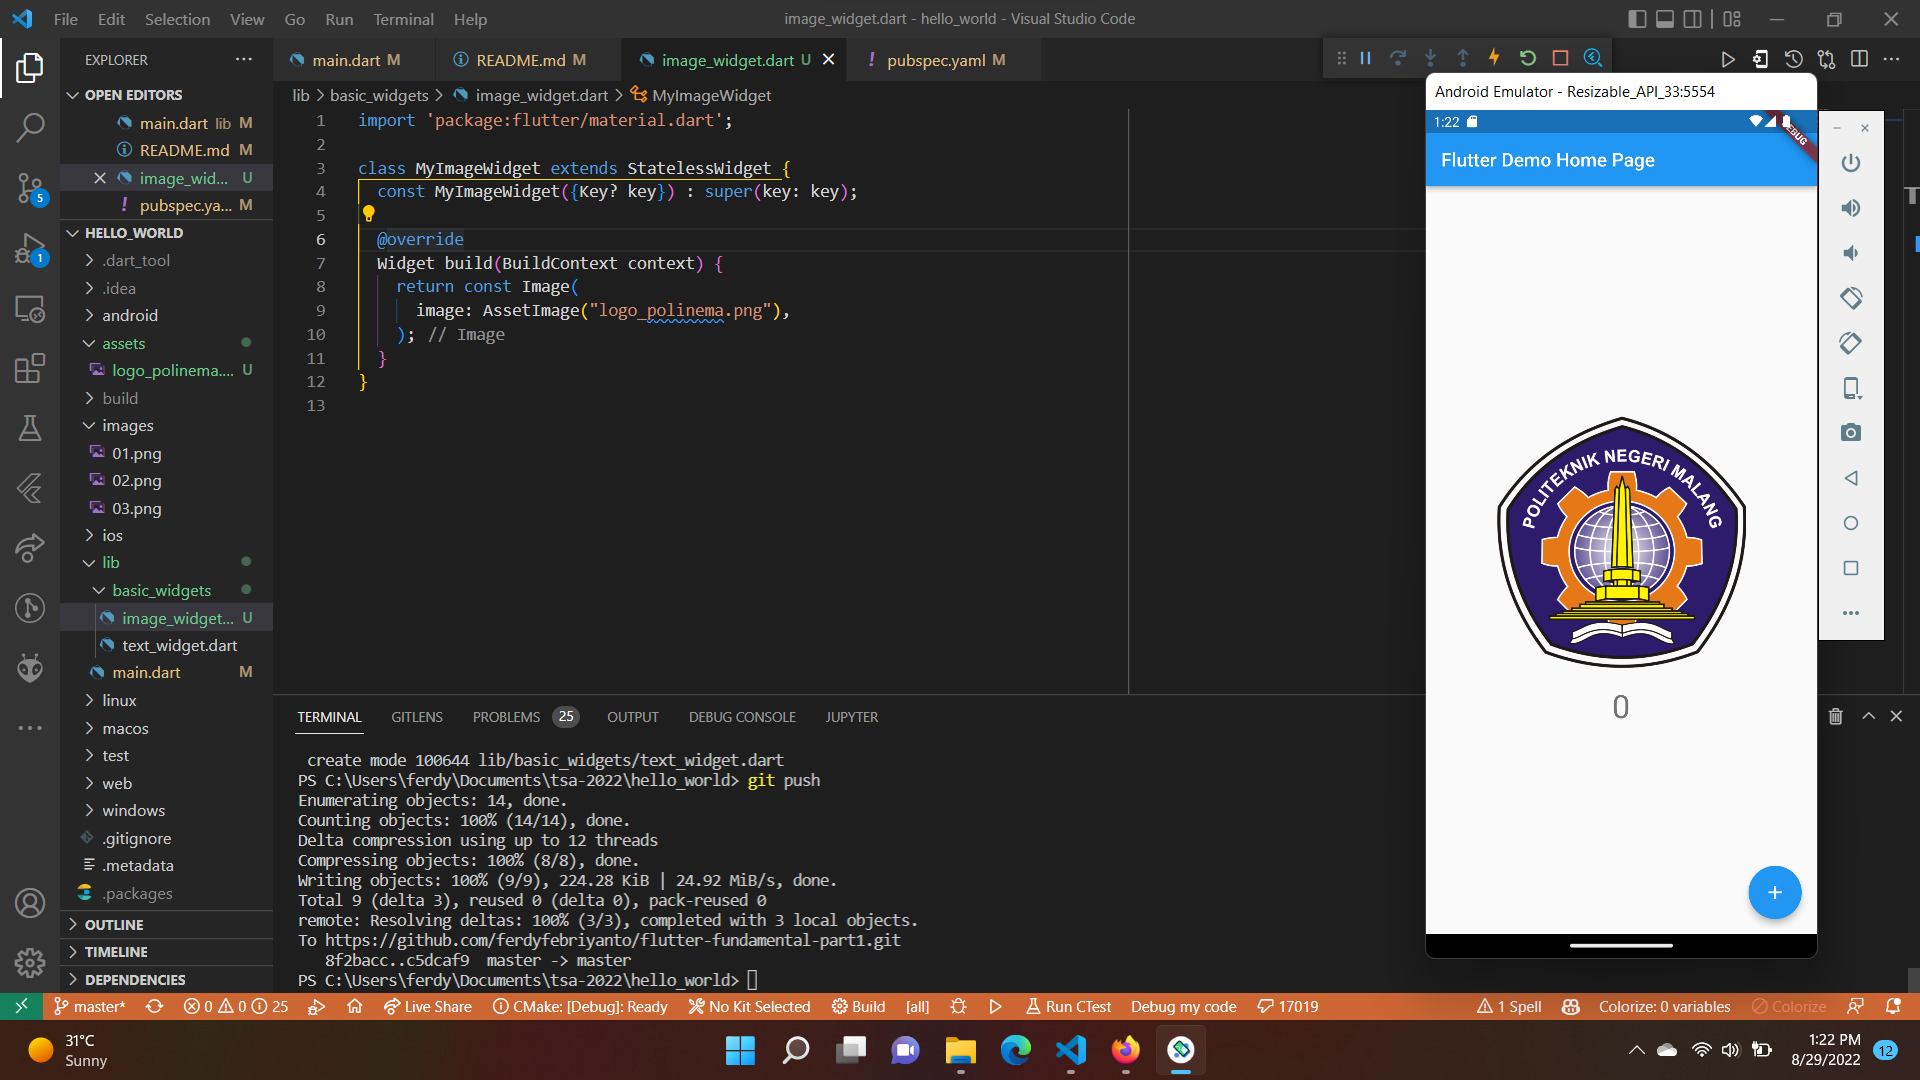
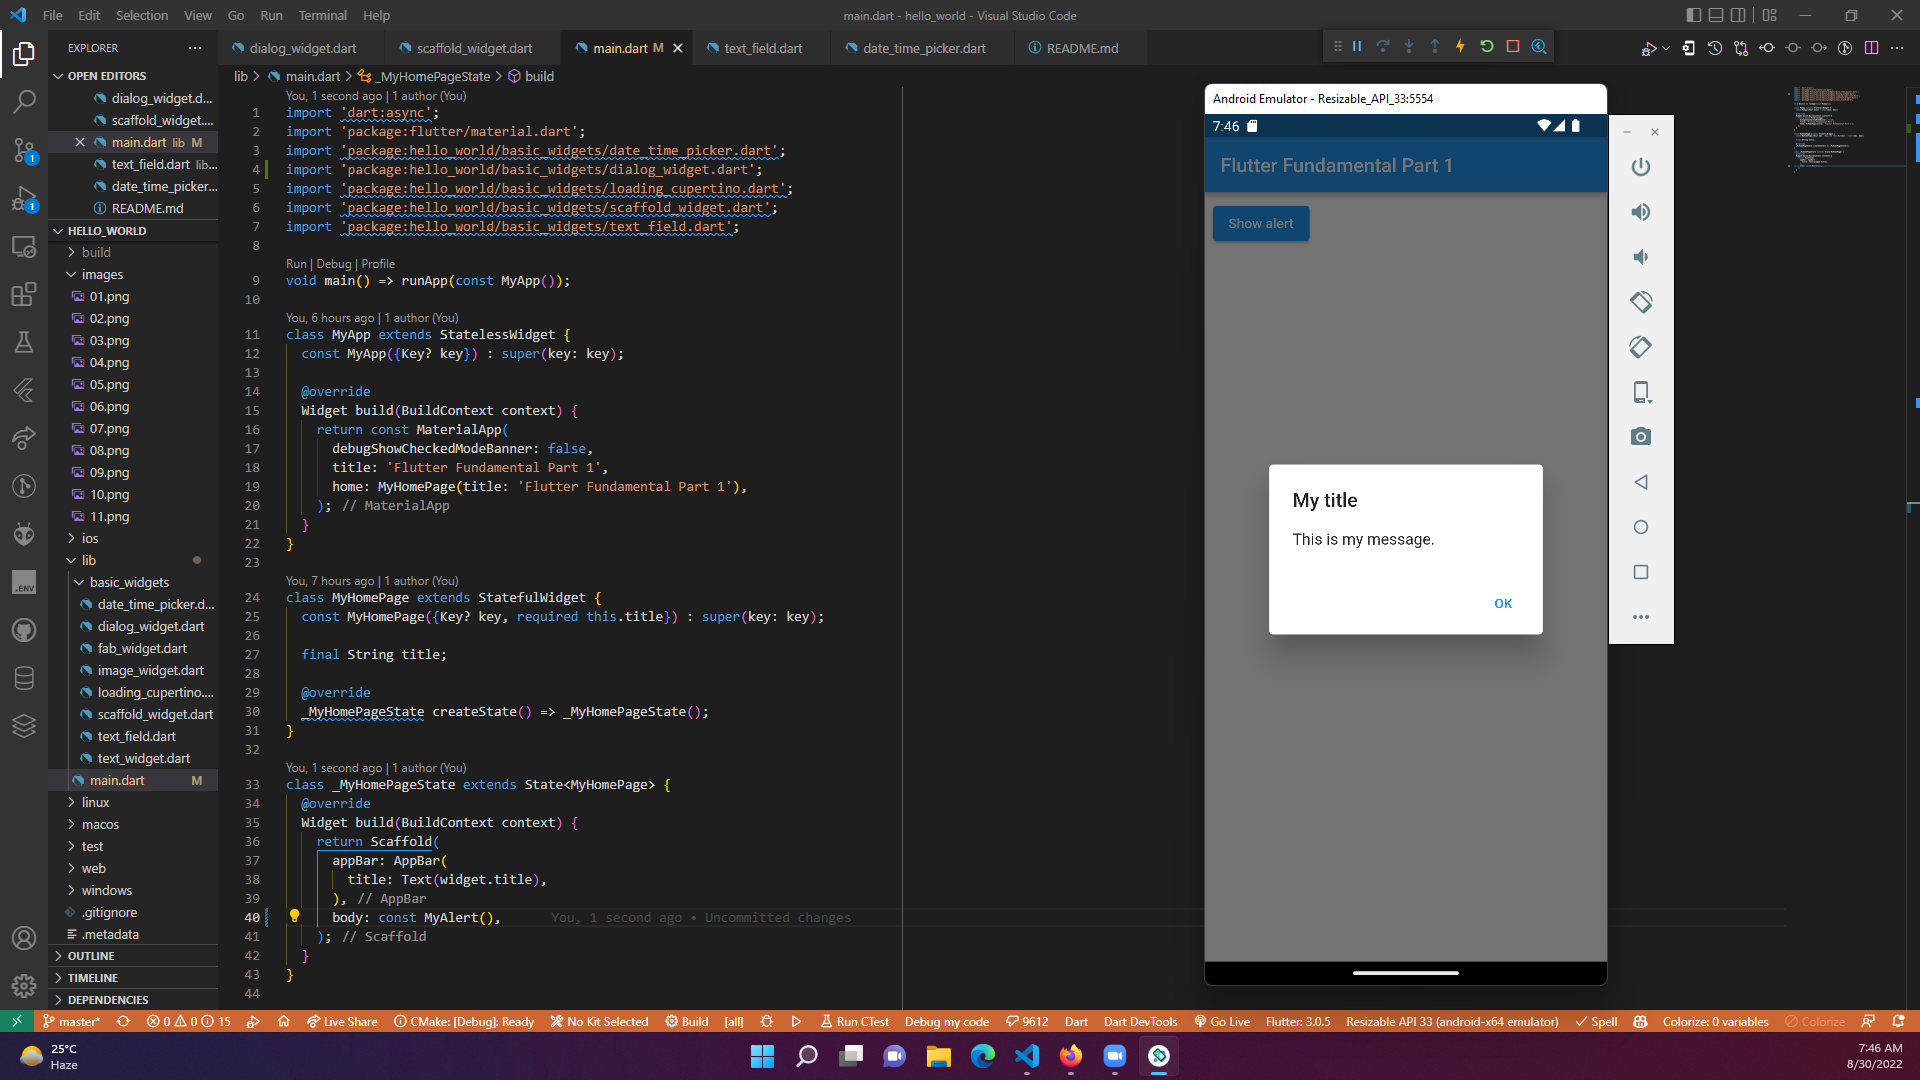
update readme

diff --git a/lib/main.dart b/lib/main.dart
@@ -1,6 +1,7 @@
 import 'dart:async';
 import 'package:flutter/material.dart';
 import 'package:hello_world/basic_widgets/date_time_picker.dart';
+import 'package:hello_world/basic_widgets/dialog_widget.dart';
 import 'package:hello_world/basic_widgets/loading_cupertino.dart';
 import 'package:hello_world/basic_widgets/scaffold_widget.dart';
 import 'package:hello_world/basic_widgets/text_field.dart';
@@ -36,7 +37,7 @@ class _MyHomePageState extends State<MyHomePage> {
       appBar: AppBar(
         title: Text(widget.title),
       ),
-      body: const MyScaffold(),
+      body: const MyAlert(),
     );
   }
 }
